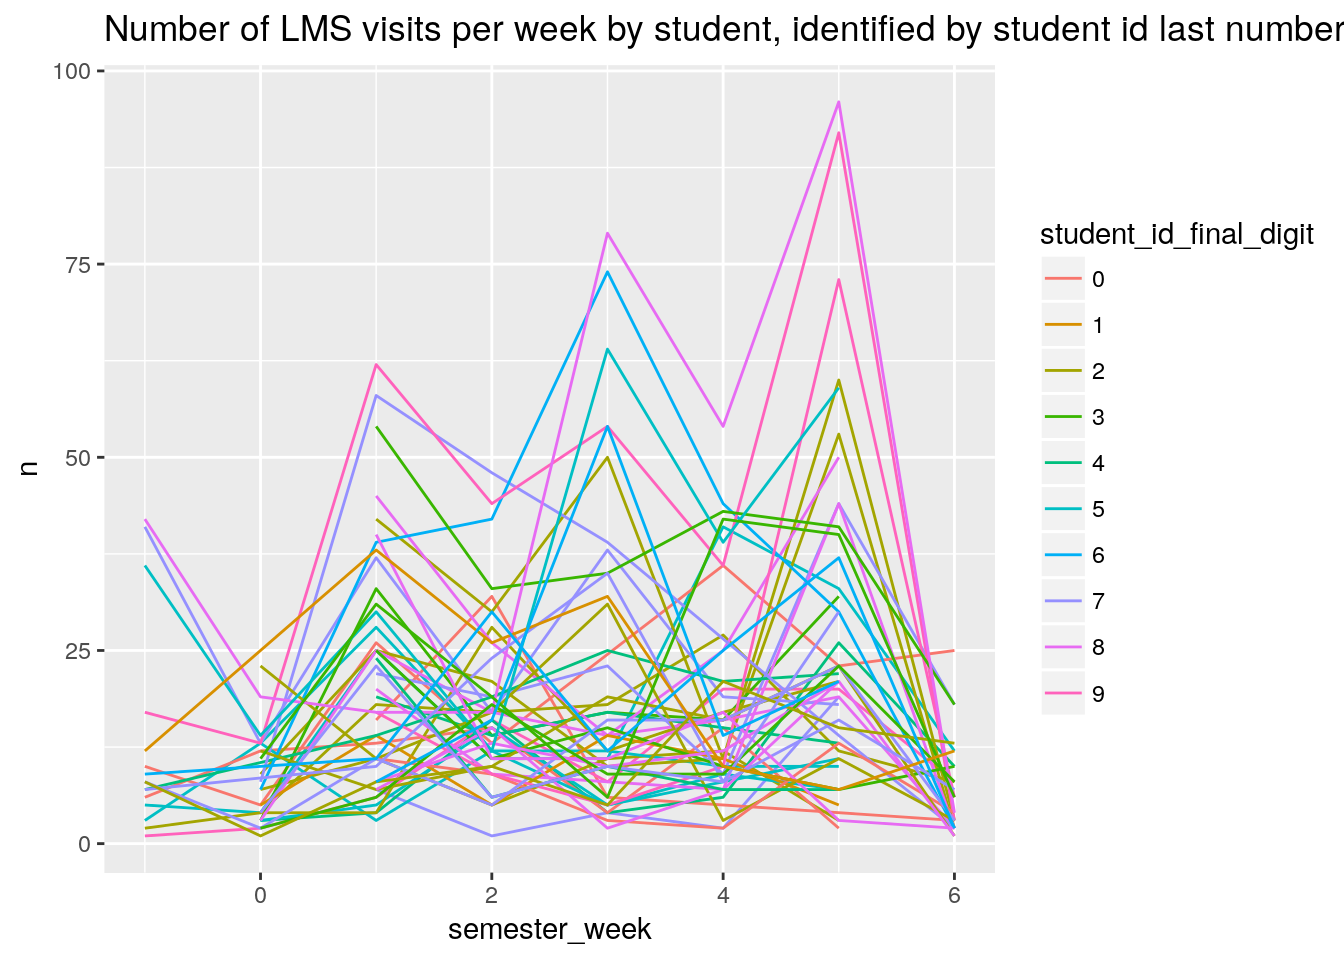
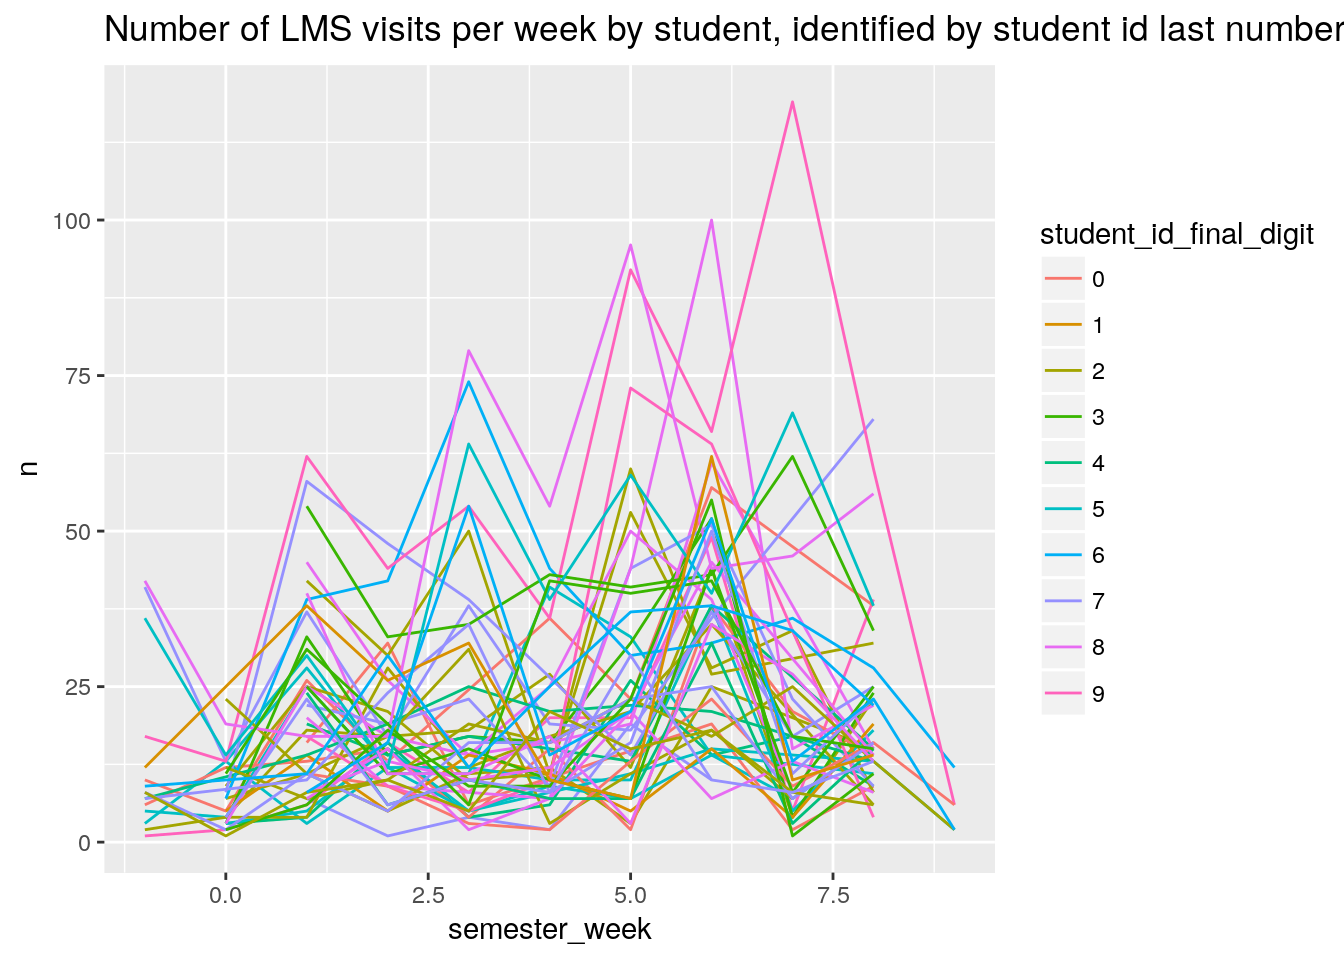
Build site.

diff --git a/docs/processIHBLogs.html b/docs/processIHBLogs.html
@@ -337,7 +337,7 @@ div.section {
 </div>
 
 
-<p><strong>Last updated:</strong> 2018-09-10</p>
+<p><strong>Last updated:</strong> 2018-09-24</p>
 <strong>workflowr checks:</strong> <small>(Click a bullet for more information)</small>
 <ul>
 <li>
@@ -361,7 +361,7 @@ div.section {
 </details>
 </li>
 <li>
-<p><details> <summary> <strong style="color:blue;">✔</strong> <strong>Repository version:</strong> <a href="https://github.com/dewoller/LMS_reports/tree/309e9e603f6f937ef1b5893bd1a55a390defd168" target="_blank">309e9e6</a> </summary></p>
+<p><details> <summary> <strong style="color:blue;">✔</strong> <strong>Repository version:</strong> <a href="https://github.com/dewoller/LMS_reports/tree/f8fedf301aaf8afa9ee4a268c7e2e1203a60a93c" target="_blank">f8fedf3</a> </summary></p>
 Great! You are using Git for version control. Tracking code development and connecting the code version to the results is critical for reproducibility. The version displayed above was the version of the Git repository at the time these results were generated. <br><br> Note that you need to be careful to ensure that all relevant files for the analysis have been committed to Git prior to generating the results (you can use <code>wflow_publish</code> or <code>wflow_git_commit</code>). workflowr only checks the R Markdown file, but you know if there are other scripts or data files that it depends on. Below is the status of the Git repository when the results were generated:
 <pre><code>
 Ignored files:
@@ -369,6 +369,7 @@ Ignored files:
 
 Unstaged changes:
     Modified:   data/ip_locations.csv
+    Modified:   lib/functions.R
 
 </code></pre>
 Note that any generated files, e.g. HTML, png, CSS, etc., are not included in this status report because it is ok for generated content to have uncommitted changes. </details>
@@ -397,6 +398,40 @@ Message
 </tr>
 </thead>
 <tbody>
+<tr>
+<td style="text-align:left;">
+Rmd
+</td>
+<td style="text-align:left;">
+<a href="https://github.com/dewoller/LMS_reports/blob/f8fedf301aaf8afa9ee4a268c7e2e1203a60a93c/analysis/processIHBLogs.Rmd" target="_blank">f8fedf3</a>
+</td>
+<td style="text-align:left;">
+Dennis Wollersheim
+</td>
+<td style="text-align:left;">
+2018-09-24
+</td>
+<td style="text-align:left;">
+workflowr::wflow_publish(“analysis/processIHBLogs.Rmd”)
+</td>
+</tr>
+<tr>
+<td style="text-align:left;">
+html
+</td>
+<td style="text-align:left;">
+<a href="https://cdn.rawgit.com/dewoller/LMS_reports/2eacff2ea4339fa4f4b5ae27001155c9a242af03/docs/processIHBLogs.html" target="_blank">2eacff2</a>
+</td>
+<td style="text-align:left;">
+Dennis Wollersheim
+</td>
+<td style="text-align:left;">
+2018-09-10
+</td>
+<td style="text-align:left;">
+Build site.
+</td>
+</tr>
 <tr>
 <td style="text-align:left;">
 html
@@ -708,10 +743,10 @@ wflow_publish(“analysis/processIHBLogs.Rmd”)
 </ul>
 <p></details></p>
 <hr />
-<div id="marks-for-the-class-logs_2018-him3hibbu-2him5ihbbu-2_20180903-1630.csv" class="section level1">
-<h1>Marks for the class logs_2018-HIM3HIB(BU-2)HIM5IHB(BU-2)_20180903-1630.csv</h1>
-<div id="for-the-period-2018-07-16-093000-2018-09-03-161400" class="section level2">
-<h2>For the period : 2018-07-16 09:30:00, 2018-09-03 16:14:00</h2>
+<div id="marks-for-the-class-logs_2018-him3hibbu-2him5ihbbu-2_20180924-1913.csv" class="section level1">
+<h1>Marks for the class logs_2018-HIM3HIB(BU-2)HIM5IHB(BU-2)_20180924-1913.csv</h1>
+<div id="for-the-period-2018-07-16-093000-2018-09-24-190500" class="section level2">
+<h2>For the period : 2018-07-16 09:30:00, 2018-09-24 19:05:00</h2>
 </div>
 </div>
 <div id="lab-attendence" class="section level1">
@@ -1541,7 +1576,7 @@ loaded via a namespace (and not attached):
 [31] classInt_0.2-3     digest_0.6.15      foreign_0.8-70    
 [34] rmarkdown_1.10     R.utils_2.6.0      base64enc_0.1-3   
 [37] dichromat_2.0-0    pkgconfig_2.0.1    htmltools_0.3.6   
-[40] jsonvalidate_1.0.0 htmlwidgets_1.2    rlang_0.2.1       
+[40] jsonvalidate_1.0.0 htmlwidgets_1.2    rlang_0.2.2       
 [43] readxl_1.1.0       rstudioapi_0.7     shiny_1.1.0       
 [46] bindr_0.1.1        jsonlite_1.5       crosstalk_1.0.0   
 [49] R.oo_1.22.0        fansi_0.2.3        Rcpp_0.12.18      
